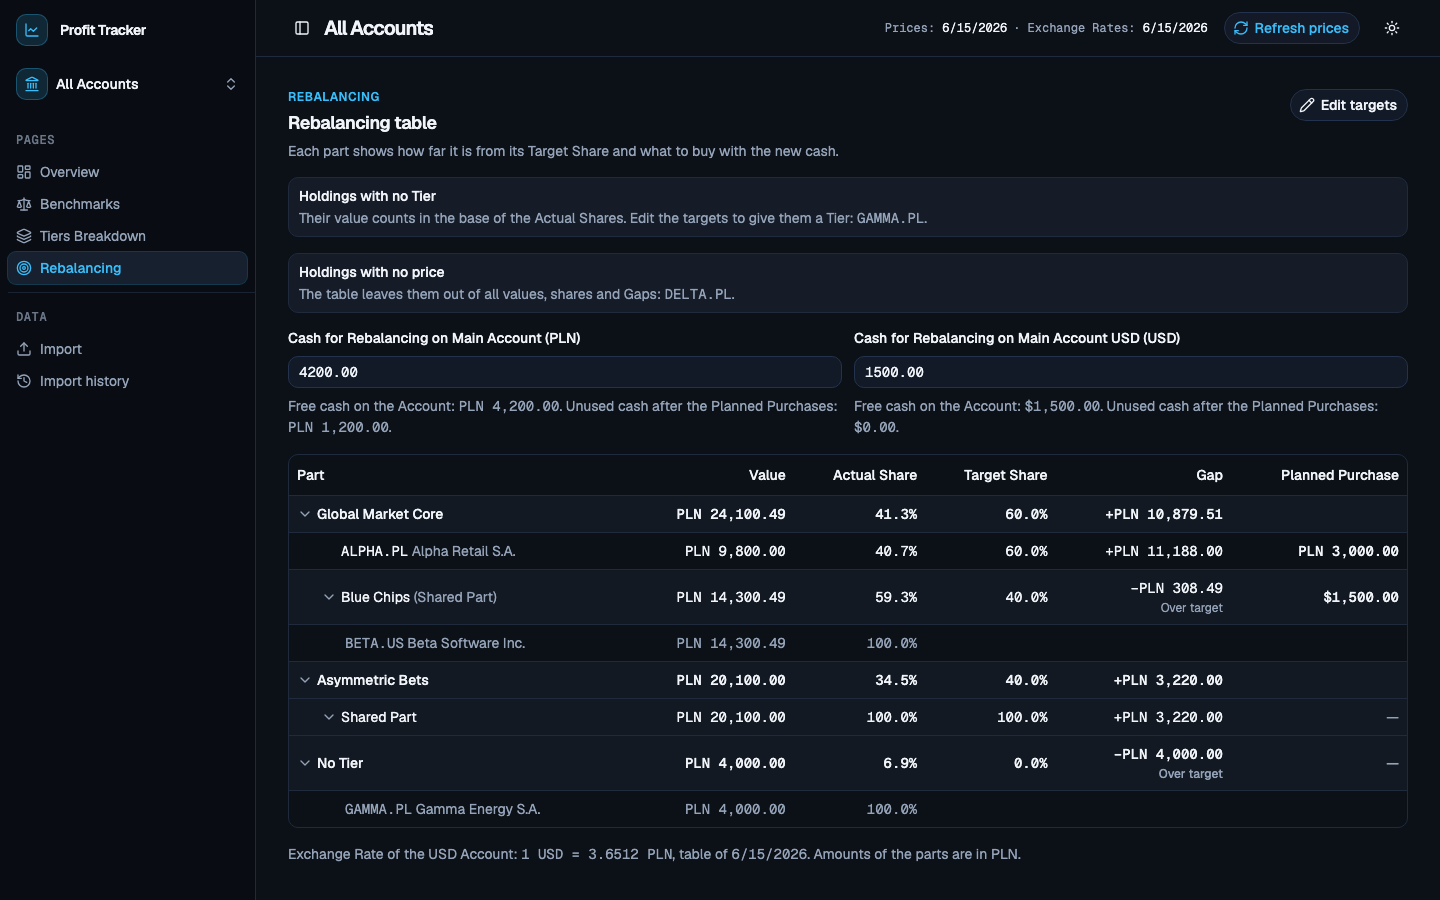
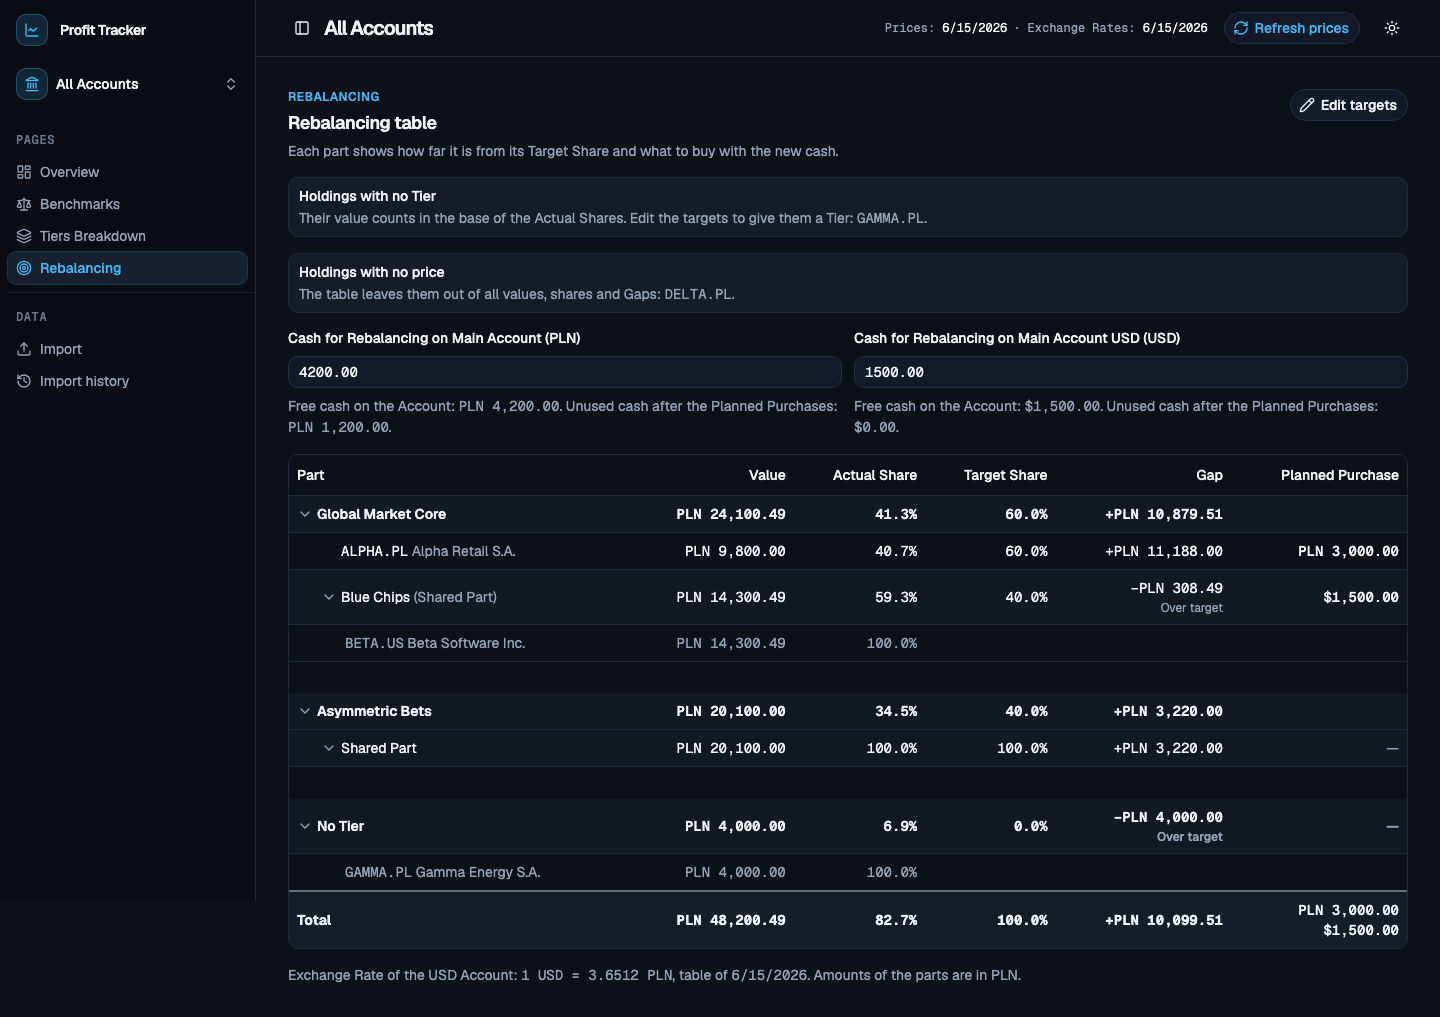
Add the Tier spacing and the Total row to the Rebalancing table
Refs #105

diff --git a/frontend/src/components/rebalancing-table.tsx b/frontend/src/components/rebalancing-table.tsx
@@ -8,6 +8,7 @@ import {
   Table,
   TableBody,
   TableCell,
+  TableFooter,
   TableHead,
   TableHeader,
   TableRow,
@@ -18,6 +19,7 @@ import type {
   RebalancingPart,
   RebalancingPurchase,
 } from "@/lib/api"
+import { sumDecimals } from "@/lib/decimal"
 import { amountSign, formatAmount, formatShare } from "@/lib/format"
 import { cn } from "@/lib/utils"
 
@@ -48,8 +50,9 @@ export function RebalancingTable({ data }: { data: Rebalancing }) {
           </TableRow>
         </TableHeader>
         <TableBody>
-          {data.tiers.map((tier) => (
+          {data.tiers.map((tier, index) => (
             <Fragment key={tier.order}>
+              {index > 0 && <SpacerRow />}
               <PartRow
                 strong
                 label={
@@ -114,6 +117,7 @@ export function RebalancingTable({ data }: { data: Rebalancing }) {
           ))}
           {data.noTier && data.noTier.holdings.length > 0 && (
             <>
+              {data.tiers.length > 0 && <SpacerRow />}
               <PartRow
                 strong
                 label={
@@ -134,8 +138,73 @@ export function RebalancingTable({ data }: { data: Rebalancing }) {
             </>
           )}
         </TableBody>
+        <TableFooter>
+          <TotalRow data={data} />
+        </TableFooter>
       </Table>
     </div>
+  )
+}
+
+// SpacerRow adds a vertical gap between two Tiers.
+function SpacerRow() {
+  return (
+    <TableRow aria-hidden className="h-8 border-0 hover:bg-transparent">
+      <TableCell colSpan={6} className="p-0" />
+    </TableRow>
+  )
+}
+
+// TotalRow sums the Tier rows and the "No Tier" row. The shares must give 100 %.
+// The Planned Purchases are summed for each currency. Part Value and Target Value are not shown, so the row sums only the shown columns.
+function TotalRow({ data }: { data: Rebalancing }) {
+  const parts: RebalancingPart[] = data.noTier
+    ? [...data.tiers, data.noTier]
+    : data.tiers
+  const sum = (pick: (part: RebalancingPart) => string) =>
+    sumDecimals(parts.map(pick))
+  const purchases = data.tiers.flatMap((tier) => [
+    ...tier.instrumentTargets.map((target) => target.plannedPurchase),
+    tier.sharedPart.plannedPurchase,
+  ])
+  const currencies = [...new Set(purchases.map((p) => p.currency))]
+  const totals: RebalancingPurchase[] = currencies.map((currency) => ({
+    accountId: null,
+    currency,
+    amount: sumDecimals(
+      purchases
+        .filter((p) => p.currency === currency && p.amount !== null)
+        .map((p) => p.amount ?? "0")
+    ),
+  }))
+  return (
+    <TableRow className="border-t-2 border-foreground/40 bg-muted/50 text-sm font-bold hover:bg-muted/50">
+      <TableCell>Total</TableCell>
+      <TableCell className="text-right num">
+        {formatAmount(
+          sum((part) => part.value),
+          "PLN"
+        )}
+      </TableCell>
+      <TableCell className="text-right num">
+        {formatShare(sum((part) => part.actualShare))}
+      </TableCell>
+      <TableCell className="text-right num">
+        {formatShare(sum((part) => part.targetShare))}
+      </TableCell>
+      <TableCell className="text-right">
+        <span className="num">
+          {formatAmount(
+            sum((part) => part.gap),
+            "PLN",
+            { signed: true }
+          )}
+        </span>
+      </TableCell>
+      <TableCell className="text-right">
+        <PurchaseCell purchases={totals} />
+      </TableCell>
+    </TableRow>
   )
 }
 
@@ -162,7 +231,7 @@ function PartRow({
   chevronGap,
 }: PartRowProps) {
   return (
-    <TableRow className={cn(strong && "bg-muted/40 font-medium")}>
+    <TableRow className={cn(strong && "bg-muted/40 font-semibold")}>
       <TableCell
         className={cn(
           "whitespace-normal",
